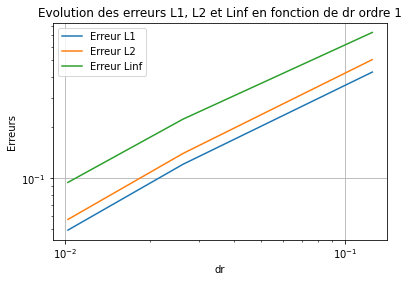
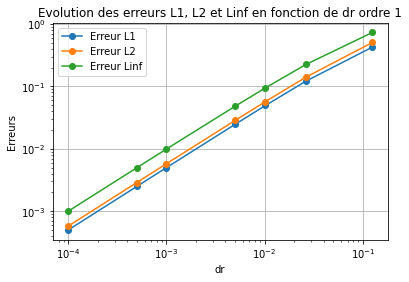
Graphiques de l'erreur correction

diff --git a/src/visualisation.py b/src/visualisation.py
@@ -48,7 +48,7 @@ def show_graphs(title:str, xaxis:str, yaxis:str, value_pairs:list):
         img = plot[1]
         text = plot[2]
         style = plot[3]
-        plt.plot(dom, img,  style, label=text)
+        plt.plot(dom, img,  style,linestyle='-', marker='o', label=text)
     
     plt.grid(True)
     plt.xlabel(xaxis)
@@ -86,10 +86,82 @@ def graphique_erreur(titre,x_values, y_values):
 
     for i in range(3):
         if i != 2:
-            plt.plot(x_dr, y_values[i], label=f'Erreur L{i+1}')
+            plt.plot(x_dr, y_values[i],linestyle='-', marker='o', label=f'Erreur L{i+1}')
         else:
-            plt.plot(x_dr, y_values[i], label='Erreur Linf')
-
+            plt.plot(x_dr, y_values[i],linestyle='-', marker='o', label='Erreur Linf')
+    
     plt.legend()
     plt.savefig(f'../results/{title.strip().lower().replace(" ", "")}', bbox_inches='tight')
     plt.show()
+    
+    """
+    Code tiré du fichier de monsieur Vidal Graphique de convergence.py
+    """
+    
+    
+    # Ajuster une loi de puissance à toutes les valeurs (en utilisant np.polyfit avec logarithmes)
+    i=0
+    for error_values in y_values:
+        
+        if i != 2:
+           nom_erreur=f'L{i+1}'
+        else:
+           nom_erreur='$L_{inf}$'
+        
+        coefficients = np.polyfit(np.log(x_dr[:3]), np.log(error_values[:3]), 1)
+        exponent = coefficients[0]
+    
+        # Fonction de régression en termes de logarithmes
+        fit_function_log = lambda x: exponent * x + coefficients[1]
+    
+        # Fonction de régression en termes originaux
+        fit_function = lambda x: np.exp(fit_function_log(np.log(x)))
+    
+        # Extrapoler la valeur prédite pour la dernière valeur de h_values
+        #extrapolated_value = fit_function(x_dr[-1])
+        
+        # Tracer le graphique en échelle log-log avec des points et la courbe de régression extrapolée
+        plt.figure(figsize=(8, 6))
+        plt.scatter(x_dr, error_values, marker='o', color='b', label='Données numériques obtenues')
+        plt.plot(x_dr, fit_function(x_dr), linestyle='--', color='r', label='Régression en loi de puissance')
+        # Ajouter des étiquettes et un titre au graphique
+        
+        
+        
+        title='Convergence de l\'erreur' + nom_erreur +' en fonction de $Δx $'+titre
+        
+        
+        plt.title(title,
+                  fontsize=14, fontweight='bold', y=1.02)  # Le paramètre y règle la position verticale du titre
+        
+        plt.xlabel('Taille de maille $Δr$ (cm)', fontsize=12, fontweight='bold') 
+        plt.ylabel('Erreur' + nom_erreur + ' (m/s)', fontsize=12, fontweight='bold')
+        
+        # Rendre les axes plus gras
+        plt.gca().spines['bottom'].set_linewidth(2)
+        plt.gca().spines['left'].set_linewidth(2)
+        plt.gca().spines['right'].set_linewidth(2)
+        plt.gca().spines['top'].set_linewidth(2)
+        
+        # Placer les marques de coche à l'intérieur et les rendre un peu plus longues
+        plt.tick_params(width=2, which='both', direction='in', top=True, right=True, length=6)
+        
+        # Afficher l'équation de la régression en loi de puissance
+        equation_text = nom_erreur + f'$= {np.exp(coefficients[1]):.4f} \\times Δx^{{{exponent:.4f}}}$'
+        equation_text_obj = plt.text(0.05, 0.05, equation_text, fontsize=12, transform=plt.gca().transAxes, color='k')
+        
+        # Déplacer la zone de texte
+        equation_text_obj.set_position((0.5, 0.4))
+        
+        
+        # Afficher le graphique
+        plt.xscale('log')
+        plt.yscale('log')
+        plt.grid(True)
+        plt.legend()
+        plt.savefig('../results/Erreur_de_Convergence_'+titre +'_'+ nom_erreur)
+        
+        plt.show()
+        i+=1
+        
+    

diff --git a/src/main.py b/src/main.py
@@ -17,7 +17,7 @@ class Data:
 
 def main(): 
     params = Data() 
-    n_values=[5, 20, 50]
+    n_values=[5, 20, 50, 100, 500, 1000, 5000]
     ### Solution analytique 
     # Définissons une fonction lambda pour évaluer facilement la solution analytique 
     C_exact = lambda r: np.true_divide(params.S,4*params.D)*np.square(params.ro)*(np.square(np.divide(r, params.ro))-1)+params.C_ext 
@@ -33,7 +33,7 @@ def main():
     ### Question E: Comparaison entre sol stationnaire S constant et analytique, avec derive_premiere d'ordre 1
     cas_a_resoudre = lambda: solve.solveur_stationnaire(params, consommation_constante=True, ordre_derive_premiere=1)
     graphiques_E = generate_n_graphs(params, cas_a_resoudre, n_values)
-    graphiques_E.append((dom_analytique, C_exact_domaine, f"Analytique avec N = 100", "-")) 
+    graphiques_E.append((dom_analytique, C_exact_domaine, "Analytique avec N = 100", "-")) 
     show_graphs("Profil obtenu numériquement et analytiquement pour une source constante et approx dérivée première ordre 1", "Position radiale [m]", r"Concentration [mol/$m^3$]",
             graphiques_E)
 
@@ -50,8 +50,8 @@ def main():
     erreur_de_convergence_observe(params,n_values,Erreur_L1,Erreur_L2,Erreur_Linf)
     # Valeurs exactes ne changent évidamment pas 
     cas_a_resoudre = lambda: solve.solveur_stationnaire(params, consommation_constante=True, ordre_derive_premiere=2)
-    graphiques_D = generate_n_graphs(params, cas_a_resoudre, n_values=[5, 20, 50])
-    graphiques_D.append((dom_analytique, C_exact_domaine, f"Analytique avec N = 100", "-")) 
+    graphiques_D = generate_n_graphs(params, cas_a_resoudre, n_values)
+    graphiques_D.append((dom_analytique, C_exact_domaine, "Analytique avec N = 100", "-")) 
     show_graphs("Profil obtenu numériquement et analytiquement pour une source constante et approx dérivée première ordre 2", "Position radiale [m]", r"Concentration [mol/$m^3$]",
             graphiques_D)
     # Question F)a)
@@ -64,7 +64,7 @@ def main():
         Erreur_L2.append(erreur_L2(graphiques_D[i][0],graphiques_D[i][1],C_exact(graphiques_D[i][0])))
         Erreur_Linf.append(erreur_Linf(graphiques_D[i][0],graphiques_D[i][1],C_exact(graphiques_D[i][0])))
         
-    graphique_erreur("ordre 2",n_values,[Erreur_L1,Erreur_L2,Erreur_Linf]) 
+    #graphique_erreur("ordre 2",n_values,[Erreur_L1,Erreur_L2,Erreur_Linf]) 
     #erreur_de_convergence_observe(params,n_values,Erreur_L1,Erreur_L2,Erreur_Linf)
     return None 
 
